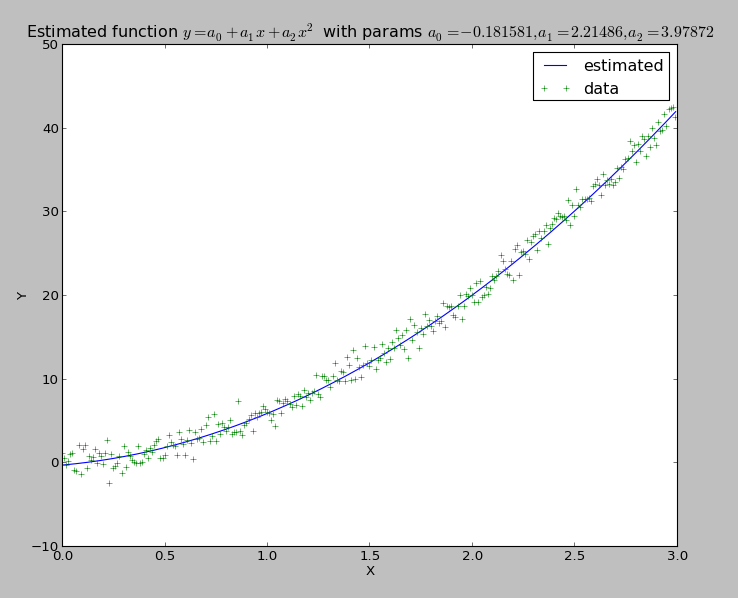
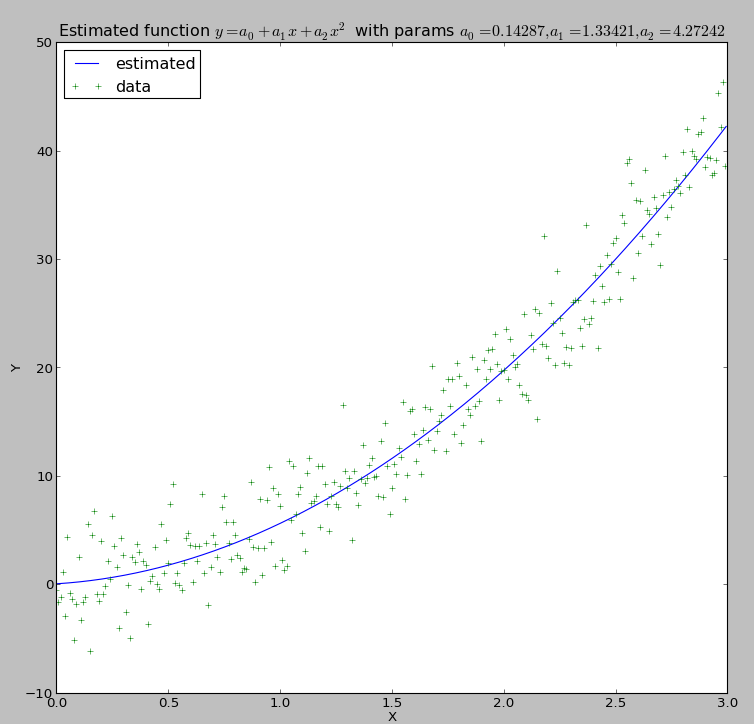
Improved tutorial for parametric regression.
Now defaults to col_deriv=1

Changed region(s): [[0.0, 0.0301, 0.9661, 1.0], [0.9661, 0.9632, 0.9973, 0.9933], [0.6856, 0.5418, 0.7168, 0.5719]]

diff --git a/pyqt_fit/curve_fitting.py b/pyqt_fit/curve_fitting.py
@@ -113,7 +113,7 @@ class CurveFitting(object):
     """
 
     def __init__(self, xdata, ydata, p0, fct, args=(), residuals=None, fix_params=(),
-                  Dfun=None, Dres = None, col_deriv=0, constraints = None,
+                  Dfun=None, Dres = None, col_deriv=1, constraints = None,
                   *lsq_args, **lsq_kword):
         self.fct = fct
         if residuals is None:

diff --git a/docs/Param_tut.rst b/docs/Param_tut.rst
@@ -43,14 +43,17 @@ As a simple example, we will take the function :math:`f` to be:
 
 Let's assume the points look like this:
 
-.. image:: Parm_tut_data.png
+.. figure:: Parm_tut_data.png
+  :align: center
+
+  Raw data for curve fitting
 
 The data points have been generated by that script::
 
   >>> import numpy as np
   >>> from matplotlib import pylab
   >>> x = np.arange(0,3,0.01)
-  >>> y = 2*x + 4*x**2 + np.random.randn(*x.shape)
+  >>> y = 2*x + 4*x**2 + 3*np.random.randn(*x.shape)
   >>> pylab.plot(x,y,'+',label='data')
   >>> pylab.legend(loc=0)
   >>> pylab.xlabel('X'); pylab.ylabel('Y')
@@ -68,7 +71,7 @@ optimal parameters, and also behaves as a function for the fitted data::
   >>> import pyqt_fit
   >>> fit = pyqt_fit.CurveFitting(x,y,(0,1,0),f)
   >>> print "The parameters are: a0 = {0}, a1 = {1}, a2 = {2}".format(*fit.popt)
-  The parameters are: a0 = -0.181581108848, a1 = 2.21486197906, a2 = 3.97872283269
+  The parameters are: a0 = 0.142870141922, a1 = 1.33420587099, a2 = 4.27241667343
   >>> yfitted = fit(x)
 
 The ``fit`` object, beside being a callable object to evaluate the fitting
@@ -102,7 +105,7 @@ You can then examine the ``result`` variable. But you can also perform only the
 analysis you need. For example, you can compute the data needed for the
 residual analysis with::
 
-  >>> rm = pyqt_fit.plot_fit.residual_measures(fit.res, fit(x))
+  >>> rm = pyqt_fit.plot_fit.residual_measures(fit.res)
 
 ``rm`` is a named tuple with the following fields:
 
@@ -132,8 +135,15 @@ At last, you can use the display used for the GUI::
 
 What you will obtain are these two graphs:
 
-.. image:: Parm_tut_est_function.png
-.. image:: Parm_tut_residuals.png
+.. figure:: Parm_tut_est_function.png
+  :align: center
+
+  Curve fitting output
+
+.. figure:: Parm_tut_residuals.png
+  :align: center
+
+  Residual checking output
 
 Do not hesitate to look at the code for :py:func:`pyqt_fit.plot_fit.plot1d` to examine
 how things are plotted. The function should return all the handles you may need
@@ -143,13 +153,179 @@ Confidence Intervals
 --------------------
 
 PyQt-Fit provides bootstrapping methods to compute confidence intervals.
+Bootstrapping is a method to estimate confidence interval and probability
+distribution by resampling the data provided. For our problem, we will call::
+
+  >>> import pyqt_fit.bootstrap as bs
+  >>> xs = arange(0, 3, 0.01)
+  >>> result = bs.bootstrap(pyqt_fit.CurveFitting, x, y, eval_points = xs, fit_args = ((0,1,0), f), CI = (95,99), extra_attrs = ('popt',))
+
+This will compute the 95% and 99% confidence intervals for the curves and for
+the optimised parameters (``popt``). The result is a named tuple
+:py:class:`pyqt_fit.bootstrap.BootstrapResult`. The most important field are
+``y_est`` and ``CIs`` that provide the estimated values and the confidence
+intervals for the curve and for the parameters.
+
+On the data, the result can be plotted with::
+
+  >>> plot(xs, result.y_fit(xs), 'r', label="Fitted curve")
+  >>> plot(xs, result.CIs[0][0,0], 'g--', label='95% CI')
+  >>> plot(xs, result.CIs[0][0,1], 'g--')
+  >>> fill_between(xs, result.CIs[0][0,0], result.CIs[0][0,1], color='g', alpha=0.25)
+  >>> legend(loc=0)
+
+The result is:
+
+.. figure:: Parm_tut_CI.png
+  :align: center
+
+  Drawing of the 95% confidence interval
+
+The bounds for the parameters are obtained with::
+
+  >>> print "95% CI for p0 = {}-{}".format(*result.CIs[1][0])
+  >>> print "99% CI for p0 = {}-{}".format(*result.CIs[1][1])
+  95% CI for p0 = [-0.84216998 -0.20389559  3.77950689]-[ 1.14753806  2.8848943   4.7557855 ]
+  99% CI for p0 = [-1.09413524 -0.62373955  3.64217184]-[ 1.40142123  3.32762714  4.91391328]
+
+It is also possible to obtain the full distribution of the values for the curve
+and for the parameters by providing the argument ``full_results=True`` and by
+looking at ``result.full_results``.
 
 Defining the functions and residuals
 ------------------------------------
 
+User-defined function
+^^^^^^^^^^^^^^^^^^^^^
+
+The function must be a two argument python function:
+
+  1. the parameters of the function, provided either as a tuple or a ndarray
+
+  2. the values on which the function is to be evaluated, provided as a single value or a ndarray
+
+If the second argument is a ndarray of shape ``(...,N)``, the output must be a ndarray of shape ``(N,)``.
+
+If is also possible to provide the function computing the Jacobian of the
+estimation function. The arguments are the same as for the function, but the
+shape of the output must be ``(P,N)``, where ``P`` is the number of parameters
+to be fitted, unless the option ``col_deriv`` is set to 0, in which case the
+shape of the output must be ``(N,P)``.
+
+User-defined residuals
+^^^^^^^^^^^^^^^^^^^^^^
+
+It is also possible to redefine the notion of residuals. A common example is to
+use the log of the residuals. It is most applicable if the standard deviation
+of the residuals is proportional to the fitted quantity. The residual should be
+a function of two arguments:
+
+  1. the measured data
+
+  2. the fitted data
+
+For example, the log residuals would be::
+
+  >>> def log_residuals(y1, y0):
+  ...   return np.log(y1/y0)
+
+As for the user-defined function, it is possible to provide the jacobian of the
+residuals. It must be provided as a function of 3 arguments:
+
+  1. the measured data
+
+  2. the fitted data
+
+  3. the jacobian of the function on the fitted data
+
+The shape of the output must be the same as the shape of the jacobian of the
+function. For example, if ``col_deriv`` is set to 1, the jacobian of the
+log-residuals will be defined as::
+
+  >>> def Dlog_residual(y1, y0, dy):
+  ...   return -dy/y0[np.newaxis,:]
+
+This is because:
+
+.. math::
+
+  \mathcal{J}\left(\log\frac{y_1}{y_0}\right) = -\frac{\mathcal{J}(y_0)}{y_0}
+
+as :math:`y_1` is a constant, and :math:`y_0` depend on the parameters.
+
+Also, methods like the residuals bootstrapping will require a way to apply
+residuals on fitted data. For this, you will need to provide a function such as::
+
+  >>> def invert_log_residuals(y, res):
+  ...   return y*np.exp(res)
+
+This function should be such that this expression returns always true::
+
+  >>> all(log_residuals(invert_log_residuals(y, res), y) == res)
+
+Of course, working with floating point values, this is usually not happening.
+So a better test function would be::
+
+  >>> sum((log_residuals(invert_log_residuals(y, res), y) - res)**2) < epsilon
+
 Using the functions/residuals defined for the GUI
 -------------------------------------------------
 
-Tuning the residuals
---------------------
+It is also possible to use the functions and residuals defined for the GUI. The
+interface for this are via the modules :py:mod:`pyqt_fit.functions` and
+:py:mod:`pyqt_fit.residuals`.
+
+The list of available functions can be retrieved with::
+
+  >>> pyqt_fit.functions.names()
+  ['Power law', 'Exponential', 'Linear', 'Logistic']
+
+And a function is retrieved with::
+
+  >>> f = pyqt_fit.functions.get('Logistic')
+
+The function is an object with the following properties:
+
+  ``__call__``
+    Evaluate the function on a set of points, as described in the previous section
+
+  ``Dfun``
+    Evaluate the jacobian of the function. If not available, this property is set to ``None``
+
+  ``args``
+    Name of the arguments
+
+  ``description``
+    Formula or description of the evaluated function
+
+  ``init_args``
+    Function provided a reasonnable first guess for the parameters. Should be called with ``f.init_args(x,y)``.
+
+In the same way, the list of available residuals can be retrieved with::
+
+  >>> pyqt_fit.residuals.names()
+  ['Difference of the logs', 'Standard']
+
+And a residuals function is retrieved with::
+
+  >>> r = pyqt_fit.residuals.get('Difference of the logs')
+
+The residuals is an object with the following properties:
+
+  ``__call__``
+    Evaluate the residuals, as described in the previous section
+
+  ``Dfun``
+    Evaluate the jacobian of the residuals. If not available, this property is set to ``None``
+
+  ``invert``
+    Function that apply the residuals to a set of fitted data. It will be
+    called as ``r.invert(y, res)``. It should have the properties of the invert
+    function described in the previous section.
+
+  ``description``
+    Description of the kind of residuals
+
+  ``name``
+    Name of the residuals.
 

diff --git a/docs/mod_bootstrap.rst b/docs/mod_bootstrap.rst
@@ -33,7 +33,12 @@ Main Boostrap Functions
 
   .. py:attribute:: CIs
 
-            list of estimated confidence interval for each value of eval_points
+            List of confidence intervals. The first element is for the estimated values
+            on ``eval_points``. The others are for the extra attributes specified in
+            ``extra_attrs``. Each array is a 3-dimensional array (Q,2,N), where
+            Q is the number of confidence interval and N is the number of data
+            points. Values (x,0,y) give the lower bounds and (x,1,y) the upper
+            bounds of the confidence intervals.
 
   .. py:attribute:: shuffled_xs
 
